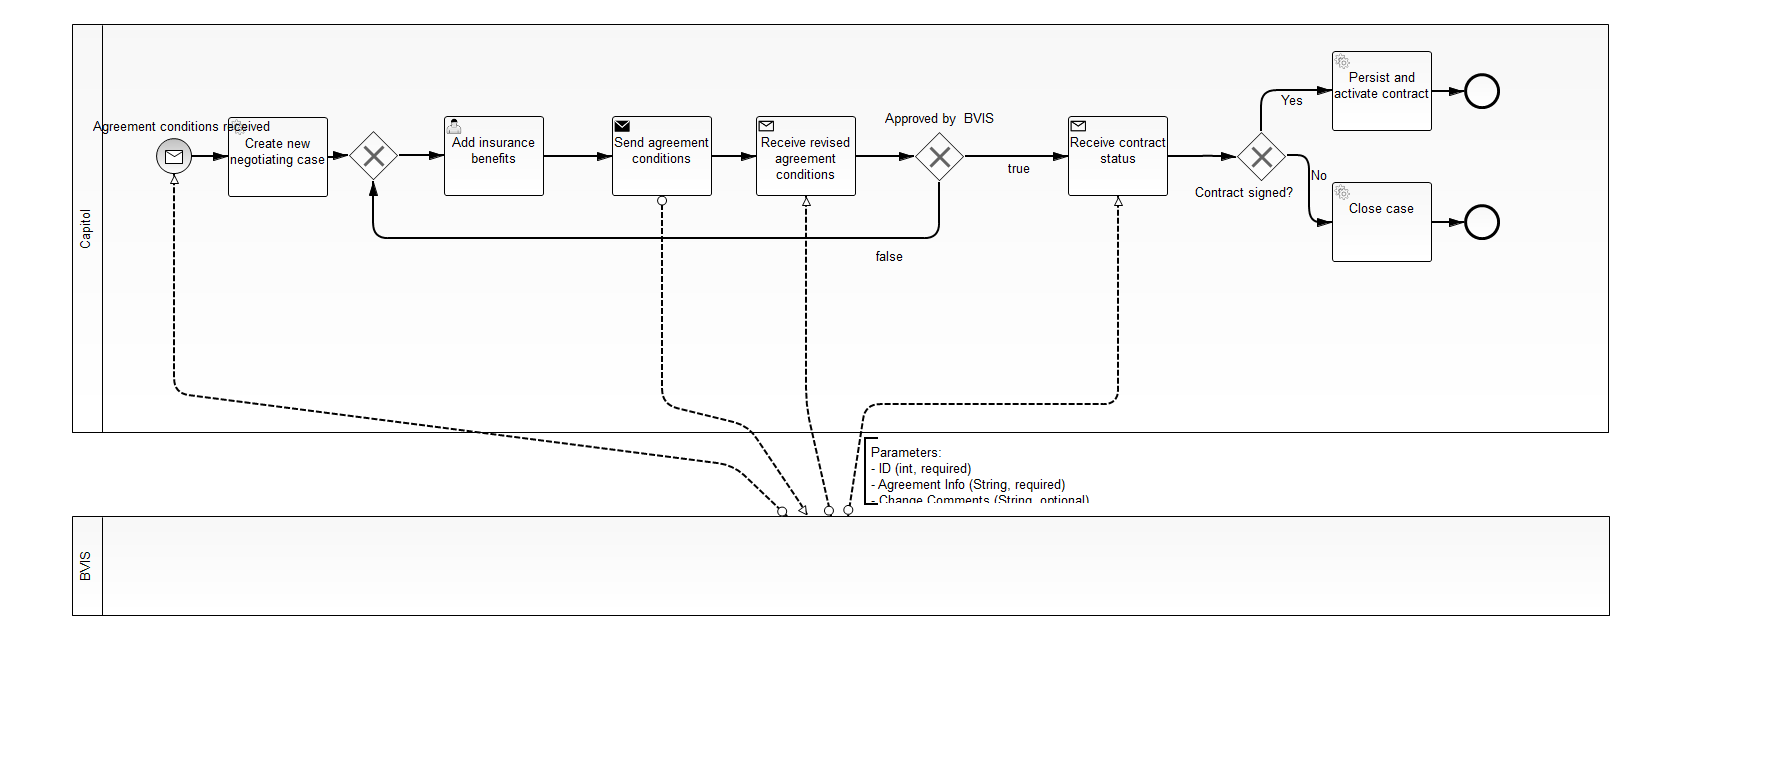
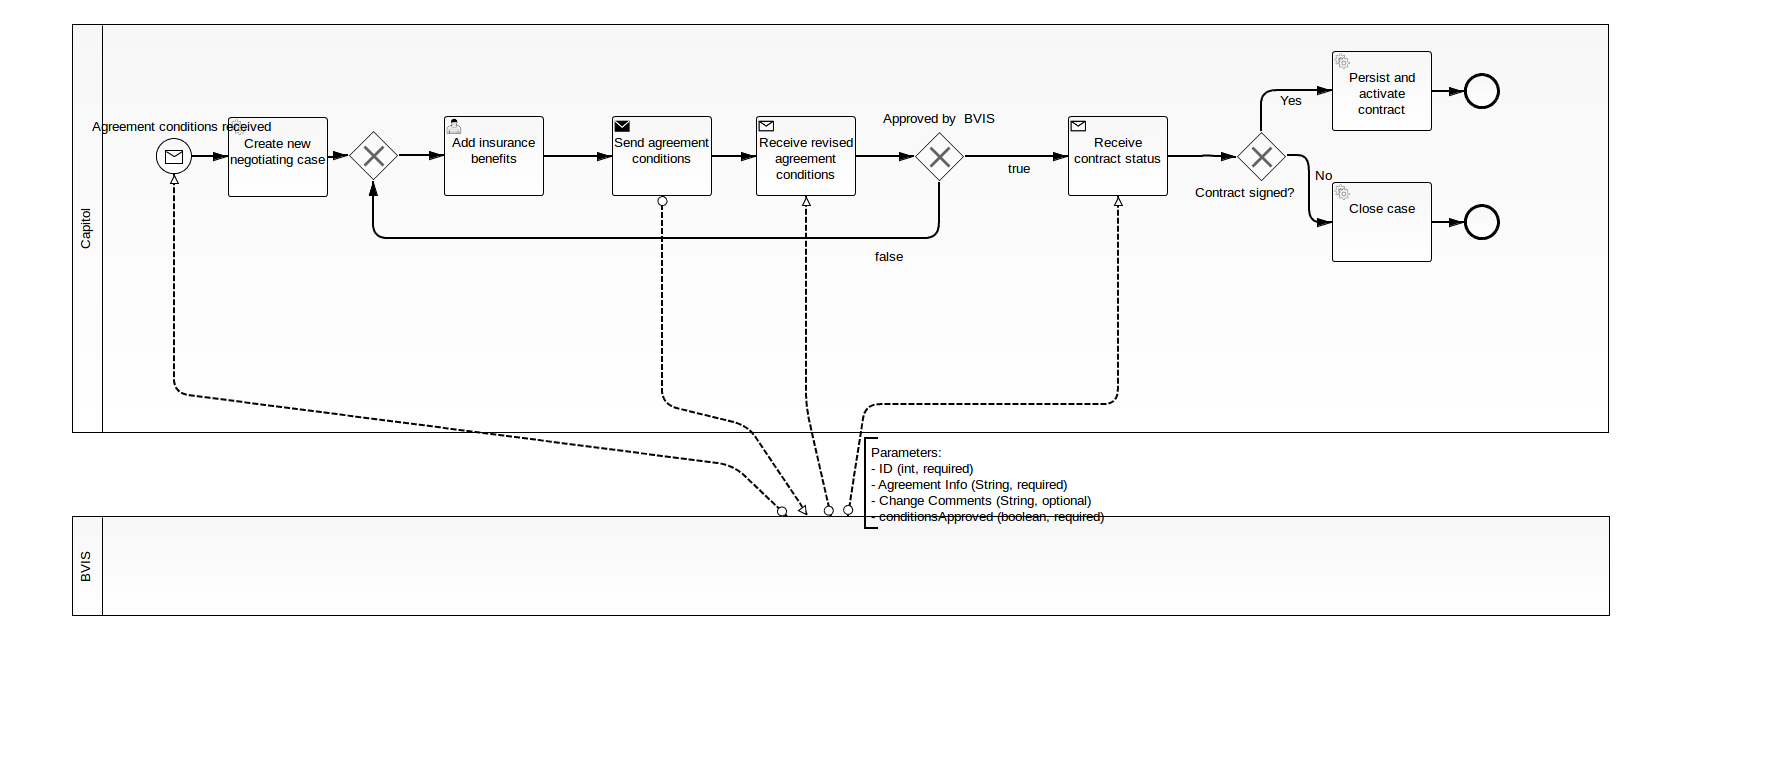
Created Customer entity; implementeted CreateNegotiationCaseDelegate similar to CreateLiabilityCaseDelegate

diff --git a/capitol/src/main/java/de/unimuenster/wi/wfm/delegates/CreateNegotiationCaseDelegate.java b/capitol/src/main/java/de/unimuenster/wi/wfm/delegates/CreateNegotiationCaseDelegate.java
@@ -1,14 +1,56 @@
 package de.unimuenster.wi.wfm.delegates;
 
+import java.util.HashMap;
+import java.util.Map;
+
+import javax.ejb.EJB;
+import javax.inject.Named;
+
 import org.camunda.bpm.engine.delegate.DelegateExecution;
 import org.camunda.bpm.engine.delegate.JavaDelegate;
 
+import de.unimuenster.wi.wfm.ejb.CustomerServiceBean;
+import de.unimuenster.wi.wfm.ejb.LiabilityCaseService;
+import de.unimuenster.wi.wfm.ejb.NegotiationCaseServiceBean;
+import de.unimuenster.wi.wfm.entitiy.CaseStatus;
+import de.unimuenster.wi.wfm.entitiy.Customer;
+import de.unimuenster.wi.wfm.entitiy.ImageAttachment;
+import de.unimuenster.wi.wfm.entitiy.LiabilityCase;
+import de.unimuenster.wi.wfm.entitiy.NegotiationCase;
+
+@Named
 public class CreateNegotiationCaseDelegate implements JavaDelegate {
 
+	@EJB
+	private NegotiationCaseServiceBean negotiationService;
+	@EJB
+	private CustomerServiceBean customerService;
 	
-	public void execute(DelegateExecution arg0) throws Exception {
-		// TODO Auto-generated method stub
-
+	public void execute(DelegateExecution delegateExecution) throws Exception {
+		// Retrieve Process Vars
+		Map<String, Object> variables = delegateExecution.getVariables();
+		
+		// Content will be deleted at the end ...
+		Map<String, Object> variablesToRemove = new HashMap<String, Object>();
+		
+		// Create new Case
+		NegotiationCase negotiation = new NegotiationCase();
+		
+		Customer customer = customerService.getCustomerByName((String) variables.get("customer"));
+		negotiation.setCustomer(customer);
+		variablesToRemove.put("customer", variables.get("customer"));
+		negotiation.setAgreementInfo((String) variables.get("agreementConditions"));
+		variablesToRemove.put("agreementConditions", variables.get("agreementConditions"));
+		negotiation.setConditionsApproved(false);
+		
+		// Store negotiation
+		negotiation = negotiationService.createNegotiationCase(negotiation);
+		
+		// Publish ID
+		delegateExecution.setVariable("caseID", negotiation.getId());
+		
+		// Remove process vars (not longer needed)
+		delegateExecution.removeVariables(variablesToRemove.keySet());
 	}
 
 }

diff --git a/capitol/src/main/java/de/unimuenster/wi/wfm/delegates/CreateNewLiabilityCaseDelegate.java b/capitol/src/main/java/de/unimuenster/wi/wfm/delegates/CreateNewLiabilityCaseDelegate.java
@@ -9,8 +9,10 @@ import javax.inject.Named;
 import org.camunda.bpm.engine.delegate.DelegateExecution;
 import org.camunda.bpm.engine.delegate.JavaDelegate;
 
+import de.unimuenster.wi.wfm.ejb.CustomerServiceBean;
 import de.unimuenster.wi.wfm.ejb.LiabilityCaseService;
 import de.unimuenster.wi.wfm.entitiy.CaseStatus;
+import de.unimuenster.wi.wfm.entitiy.Customer;
 import de.unimuenster.wi.wfm.entitiy.ImageAttachment;
 import de.unimuenster.wi.wfm.entitiy.LiabilityCase;
 
@@ -19,6 +21,8 @@ public class CreateNewLiabilityCaseDelegate implements JavaDelegate {
 
 	@EJB
 	private LiabilityCaseService liabilityCaseService;
+	@EJB
+	private CustomerServiceBean customerService;
 	
 	public void execute(DelegateExecution delegateExecution) throws Exception {
 		
@@ -30,7 +34,10 @@ public class CreateNewLiabilityCaseDelegate implements JavaDelegate {
 		
 		// Create new Case
 		LiabilityCase claim = new LiabilityCase();
-		claim.setCustomer((String) variables.get("customer"));
+		
+		Customer customer = customerService.getCustomerByName((String) variables.get("customer"));
+		claim.setCustomer(customer);
+		
 		variablesToRemove.put("customer", variables.get("customer"));
 		claim.setStatus(CaseStatus.NEW);
 		

diff --git a/capitol/src/main/java/de/unimuenster/wi/wfm/entitiy/Customer.java b/capitol/src/main/java/de/unimuenster/wi/wfm/entitiy/Customer.java
@@ -1,0 +1,40 @@
+package de.unimuenster.wi.wfm.entitiy;
+
+import java.util.ArrayList;
+import java.util.Collection;
+
+import javax.persistence.CascadeType;
+import javax.persistence.Entity;
+import javax.persistence.FetchType;
+import javax.persistence.OneToMany;
+
+@Entity
+public class Customer extends AbstractEntity {
+
+	private static final long serialVersionUID = 1L;
+	
+	protected String name;
+	
+	@OneToMany(fetch = FetchType.EAGER, cascade = {CascadeType.DETACH, CascadeType.MERGE, CascadeType.PERSIST, CascadeType.REFRESH}, mappedBy = "customer")
+	protected Collection<LiabilityCase> liabilityCases = new ArrayList<LiabilityCase>();
+	
+	@OneToMany(fetch = FetchType.EAGER, cascade = {CascadeType.DETACH, CascadeType.MERGE, CascadeType.PERSIST, CascadeType.REFRESH}, mappedBy = "customer")
+	protected Collection<NegotiationCase> negotiationCases = new ArrayList<NegotiationCase>();
+
+	public String getName() {
+		return name;
+	}
+
+	public void setName(String name) {
+		this.name = name;
+	}
+
+	public Collection<LiabilityCase> getLiabilityCases() {
+		return liabilityCases;
+	}
+
+	public Collection<NegotiationCase> getNegotiationCases() {
+		return negotiationCases;
+	}
+
+}

diff --git a/capitol/src/main/java/de/unimuenster/wi/wfm/entitiy/NegotiationCase.java b/capitol/src/main/java/de/unimuenster/wi/wfm/entitiy/NegotiationCase.java
@@ -1,0 +1,54 @@
+package de.unimuenster.wi.wfm.entitiy;
+
+import javax.persistence.Entity;
+import javax.persistence.ManyToOne;
+import javax.validation.constraints.NotNull;
+
+@Entity
+public class NegotiationCase extends AbstractEntity {
+
+	private static final long serialVersionUID = 1L;
+	
+	@NotNull
+	protected String agreementInfo;
+	protected String changeComments;
+	@NotNull
+	protected boolean conditionsApproved;
+	
+	@ManyToOne
+	protected Customer customer;
+
+	public Customer getCustomer() {
+		return customer;
+	}
+
+	public void setCustomer(Customer customer) {
+		this.customer = customer;
+	}
+
+	public String getAgreementInfo() {
+		return agreementInfo;
+	}
+
+	public void setAgreementInfo(String agreementInfo) {
+		this.agreementInfo = agreementInfo;
+	}
+
+	public String getChangeComments() {
+		return changeComments;
+	}
+
+	public void setChangeComments(String changeComments) {
+		this.changeComments = changeComments;
+	}
+
+	public boolean isConditionsApproved() {
+		return conditionsApproved;
+	}
+
+	public void setConditionsApproved(boolean conditionsApproved) {
+		this.conditionsApproved = conditionsApproved;
+	}
+	
+	
+}

diff --git a/capitol/src/main/java/de/unimuenster/wi/wfm/entitiy/LiabilityCase.java b/capitol/src/main/java/de/unimuenster/wi/wfm/entitiy/LiabilityCase.java
@@ -3,6 +3,7 @@ package de.unimuenster.wi.wfm.entitiy;
 import javax.persistence.CascadeType;
 import javax.persistence.FetchType;
 import javax.persistence.Entity;
+import javax.persistence.ManyToOne;
 import javax.persistence.OneToMany;
 
 import java.util.ArrayList;
@@ -13,18 +14,20 @@ public class LiabilityCase extends AbstractEntity {
 	
 	private static  final long serialVersionUID = 1L;
 	
-	protected String customer;
 	protected CaseStatus status;
 	protected boolean eligible;
+	
+	@ManyToOne
+	protected Customer customer;
 	
 	@OneToMany(fetch = FetchType.EAGER, cascade = {CascadeType.DETACH, CascadeType.MERGE, CascadeType.PERSIST, CascadeType.REFRESH}, mappedBy = "liabilityCase")
 	protected Collection<ImageAttachment> images = new ArrayList<ImageAttachment>();
 	
-	public String getCustomer() {
+	public Customer getCustomer() {
 		return customer;
 	}
 	
-	public void setCustomer(String customer) {
+	public void setCustomer(Customer customer) {
 		this.customer = customer;
 	}
 	

diff --git a/capitol/src/main/java/de/unimuenster/wi/wfm/ejb/CustomerServiceBean.java b/capitol/src/main/java/de/unimuenster/wi/wfm/ejb/CustomerServiceBean.java
@@ -1,0 +1,23 @@
+package de.unimuenster.wi.wfm.ejb;
+
+import javax.ejb.Stateless;
+import javax.persistence.EntityManager;
+import javax.persistence.PersistenceContext;
+
+import de.unimuenster.wi.wfm.entitiy.Customer;
+
+@Stateless
+public class CustomerServiceBean {
+
+	@PersistenceContext
+	protected EntityManager em;
+	
+	public Customer getCustomerByName(String name) {
+		//TODO: retrieve customer, if no customer is found, throw exception
+		Customer customer = new Customer();
+		customer.setName(name);
+		em.persist(customer);
+		return customer;
+	}
+
+}

diff --git a/capitol/src/main/java/de/unimuenster/wi/wfm/ejb/NegotiationCaseServiceBean.java b/capitol/src/main/java/de/unimuenster/wi/wfm/ejb/NegotiationCaseServiceBean.java
@@ -1,0 +1,20 @@
+package de.unimuenster.wi.wfm.ejb;
+
+import javax.ejb.Stateless;
+import javax.persistence.EntityManager;
+import javax.persistence.PersistenceContext;
+
+import de.unimuenster.wi.wfm.entitiy.LiabilityCase;
+import de.unimuenster.wi.wfm.entitiy.NegotiationCase;
+
+@Stateless
+public class NegotiationCaseServiceBean {
+	
+	@PersistenceContext
+	protected EntityManager em;
+	
+	public NegotiationCase createNegotiationCase(NegotiationCase negotiationCase) {
+		em.persist(negotiationCase);
+		return negotiationCase;
+	}
+}
